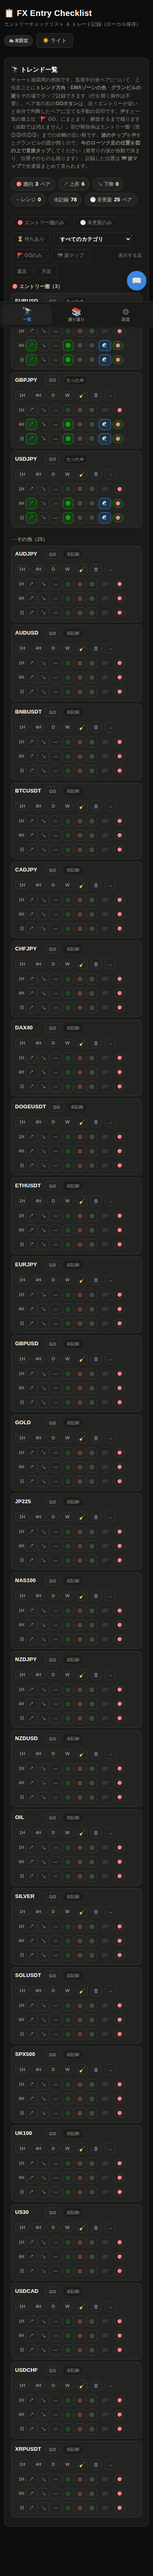
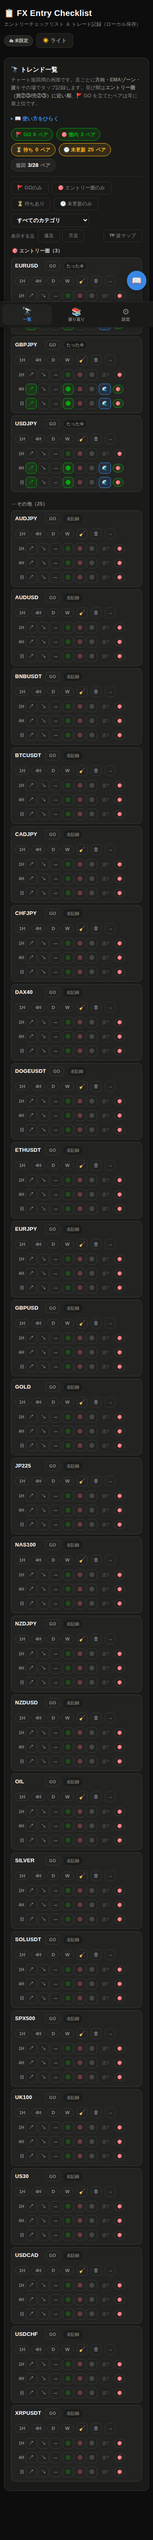
S59: 🔭一覧タブ上部（説明文・サマリー・ツールバー）を整理
説明文をS24〜S58の継ぎ足しで5話題・306文字に肥大していたのを常時2行に圧縮し、
操作手順は<details>の折りたたみへ退避。サマリーを6タイル（ペア単位/足単位が
混在）から5タイル全てペア単位（GO/圏内/待ち/未更新/巡回進捗）に統一し、
S44以降JSが出すクラス名にCSSが追随せずサマリーの配色が効いていなかった
バグも修正。ツールバーは絞り込み1行目・表示設定2行目に役割分離した。

並び順ロジック・DOM id・データモデル・CSV・端末間マージ・統計は無変更。
s42/s43/s44/s55 全159項目通過、新設s59-test.mjs 35項目通過。sw.js: v31→v32。

Claude-Session: https://claude.ai/code/session_01YStmG3mzBeBahP3oJj8pBB

diff --git a/index.html b/index.html
@@ -628,16 +628,37 @@
     font-size: 13.5px; font-weight: 700; color: var(--ink);
     font-variant-numeric: tabular-nums;
   }
-  .trend-summary .item.rd   { background: var(--accent-soft); border-color: var(--accent); color: var(--accent); }
-  .trend-summary .item.rd .n { color: var(--accent); }
+  /* S59: .rd（旧・目線3択のRD逆張り）はS58で撤去済みのため削除。
+     hot/stale はS44/S28からJS側が出しているクラス名（renderTrendSummary 参照）に合わせて定義。 */
   .trend-summary .item.go   { background: var(--good-soft); border-color: var(--good); color: var(--good); }
   .trend-summary .item.go .n { color: var(--good); }
+  .trend-summary .item.hot  { background: var(--good-soft); border-color: var(--good); color: var(--good); }
+  .trend-summary .item.hot .n { color: var(--good); }
   .trend-summary .item.wait { background: var(--warn-soft); border-color: var(--warn); color: var(--warn); }
   .trend-summary .item.wait .n { color: var(--warn); }
+  .trend-summary .item.stale { background: var(--warn-soft); border-color: var(--warn); color: var(--warn); }
+  .trend-summary .item.stale .n { color: var(--warn); }
+
+  /* S59: 説明文の常時表示は2行に圧縮し、操作手順は折りたたみへ退避（巡回のたびに読む文章ではないため）。 */
+  .trend-help { margin: -6px 0 12px; }
+  .trend-help summary {
+    font-size: 12.5px; font-weight: 600; color: var(--accent); cursor: pointer;
+    list-style: none; display: inline-flex; align-items: center; gap: 4px;
+  }
+  .trend-help summary::-webkit-details-marker { display: none; }
+  .trend-help summary::before { content: '▸'; font-size: 10px; }
+  .trend-help[open] summary::before { content: '▾'; }
+  .trend-help-body {
+    font-size: 12.5px; line-height: 1.6; color: var(--ink-muted);
+    padding: 8px 2px 0;
+  }
 
   .trend-toolbar {
     display: flex; flex-wrap: wrap; gap: 8px; align-items: center; margin-bottom: 12px;
   }
+  /* S59: 2行目（表示設定・波マップ）は1行目（絞り込み）よりわずかに間隔を詰め、
+     役割が違う2グループであることを示す。 */
+  .trend-toolbar-2 { margin-top: -6px; }
   .trend-toolbar .spacer { flex: 1; }
   .trend-filter-btn.on { background: var(--accent-soft); color: var(--accent); border-color: var(--accent); }
   .trend-category-select {
@@ -1189,21 +1210,32 @@
   <!-- ============ 🔭 トレンド一覧（監視ペア横断） ============ -->
   <section class="card tab-panel" id="tabPanel-trend">
     <h2>🔭 トレンド一覧</h2>
-    <div class="section-note">チャート巡回用の画面です。監視中の全ペアについて、上位足ごとに<strong>トレンド方向</strong>・<strong>EMAゾーンの色</strong>・<strong>グランビルの波</strong>をその場でタップ記録できます（行を開く操作は不要）。ペア名の右の<strong>GOボタン</strong>は、近々エントリーが近いと自分で判断したペアに立てる手動の目印です。押すと一覧の最上位「🚩 GO」にまとまり、解除するまで残ります（自動では消えません）。並び順自体はエントリー圏（買②③/売②③）までの距離の近い順です。<strong>波のチップ</strong>を押すとグランビルの図が開くので、<strong>今のローソク足の位置を図の上で直接タップ</strong>してください（最寄りの波が自動で決まり、位置そのものも残ります）。記録した位置は <strong>🗺 波マップ</strong>で全通貨まとめて見られます。</div>
+    <div class="section-note">チャート巡回用の画面です。足ごとに<strong>方向・EMAゾーン・波</strong>をその場でタップ記録します。並び順は<strong>エントリー圏（買②③/売②③）に近い順</strong>、🚩 GO を立てたペアは常に最上位です。</div>
+    <details class="trend-help">
+      <summary>📖 使い方をひらく</summary>
+      <div class="trend-help-body">
+        <strong>波のチップ</strong>を押すとグランビルの図が開くので、<strong>今のローソク足の位置を図の上で直接タップ</strong>してください（最寄りの波が自動で決まり、位置そのものも残ります）。<br>
+        <strong>GOボタン</strong>は近々エントリーが近いと自分で判断したペアに立てる手動の目印で、解除するまで残ります（🧹巡回記録クリアでも消えません）。<br>
+        記録した波の位置は <strong>🗺 波マップ</strong>で全通貨まとめて見られます。<br>
+        🕐鮮度は12時間で「1回抜けた」、36時間で「1日抜けた」の目安です。⏳待ちはRCI到達待ち・MACD発生待ちなどの根拠です。
+      </div>
+    </details>
     <div class="trend-summary" id="trendSummary"></div>
     <div class="trend-toolbar">
-      <button class="btn-ghost trend-filter-btn" type="button" id="trendFilterAligned">🎯 エントリー圏のみ</button>
-      <button class="btn-ghost trend-filter-btn" type="button" id="trendFilterStale">🕐 未更新のみ</button>
-      <button class="btn-ghost trend-filter-btn" type="button" id="trendFilterWait"
-              title="RCI到達待ち・MACD発生待ちなど、⏳待ちの根拠があるペアだけに絞る">⏳ 待ちあり</button>
-      <select class="trend-category-select" id="trendCategorySelect"></select>
       <button class="btn-ghost trend-filter-btn" type="button" id="trendFilterGo"
               title="自分でGOを立てたペアだけに絞る">🚩 GOのみ</button>
-      <button class="btn-ghost trend-filter-btn" type="button" id="trendMapOpen"
-              title="記録した波の位置を全通貨まとめて図の上で見る">🗺 波マップ</button>
-      <span class="spacer"></span>
+      <button class="btn-ghost trend-filter-btn" type="button" id="trendFilterAligned">🎯 エントリー圏のみ</button>
+      <button class="btn-ghost trend-filter-btn" type="button" id="trendFilterWait"
+              title="RCI到達待ち・MACD発生待ちなど、⏳待ちの根拠があるペアだけに絞る">⏳ 待ちあり</button>
+      <button class="btn-ghost trend-filter-btn" type="button" id="trendFilterStale">🕐 未更新のみ</button>
+      <select class="trend-category-select" id="trendCategorySelect"></select>
+    </div>
+    <div class="trend-toolbar trend-toolbar-2">
       <span class="trend-tf-label">表示する足</span>
       <span class="trend-tf-toggles" id="trendTfToggles"></span>
+      <span class="spacer"></span>
+      <button class="btn-ghost trend-filter-btn" type="button" id="trendMapOpen"
+              title="記録した波の位置を全通貨まとめて図の上で見る">🗺 波マップ</button>
     </div>
     <div id="trendList"></div>
   </section>
@@ -3791,27 +3823,27 @@ function trendItemHtml(w) {
   '</div>';
 }
 
-/* 上部サマリー：今どの状態が何件かを一目で把握する。行の差し替え時も更新する。 */
+/* 上部サマリー：今どの状態が何件かを一目で把握する。行の差し替え時も更新する。
+   S59: 足単位の方向カウント（↗/↘/─/未記録）を撤去した。28ペア×3足＝84件の分母で
+   ペア単位のタイル（圏内・未更新など）と単位が揃っておらず誤読の元だったため
+   （方向は各行のトグルの色そのものが常時見えており、集計の価値が薄い）。
+   代わりに「巡回 n/m ペア」で今日どこまで見終えたかの進捗を出す。
+   タイルの並びはツールバー1行目のフィルタボタンと同じ順（GO→圏内→待ち→未更新）に揃える。 */
 function renderTrendSummary(pairs) {
-  const counts = { hot: 0, up: 0, down: 0, range: 0, none: 0, stale: 0 };
+  const counts = { go: 0, hot: 0, wait: 0, stale: 0, done: 0 };
   pairs.forEach(w => {
+    if (w.go) counts.go++;
     if (pairIsHot(w)) counts.hot++;
+    if (pairWaitCount(w) > 0) counts.wait++;
     if (isTrendStale(w)) counts.stale++;
-    MV_TREND_DEFAULT_TFS.forEach(t => {
-      const s = (w.trend && w.trend[t.k] || {}).state || '';
-      if (s === 'up') counts.up++;
-      else if (s === 'down') counts.down++;
-      else if (s === 'range') counts.range++;
-      else counts.none++;
-    });
+    if (w.trendAt) counts.done++;
   });
   const summaryItems = [
-    { cls: 'hot',  label: '🎯 圏内', n: counts.hot,  unit: 'ペア' },
-    { cls: '', label: '↗ 上昇',   n: counts.up,    unit: '' },
-    { cls: '', label: '↘ 下降',   n: counts.down,  unit: '' },
-    { cls: '', label: '─ レンジ', n: counts.range, unit: '' },
-    { cls: '', label: '未記録',   n: counts.none,  unit: '' },
+    { cls: 'go',    label: '🚩 GO',    n: counts.go,    unit: 'ペア' },
+    { cls: 'hot',   label: '🎯 圏内',  n: counts.hot,   unit: 'ペア' },
+    { cls: 'wait',  label: '⏳ 待ち',  n: counts.wait,  unit: 'ペア' },
     { cls: 'stale', label: '🕐 未更新', n: counts.stale, unit: 'ペア' },
+    { cls: '',      label: '巡回',     n: counts.done + '/' + pairs.length, unit: 'ペア' },
   ];
   trendSummaryEl.innerHTML = pairs.length
     ? summaryItems.map(i =>
@@ -3839,16 +3871,17 @@ function renderTrendCategoryOptions() {
 }
 
 
-/* ツールバーの4つの絞り込みを AND で当てる。
+/* ツールバーの5つの絞り込みを AND で当てる。順序は AND なので結果に影響しないが、
+   S59でツールバー1行目の表示順（GO→圏内→待ち→未更新→カテゴリ）に揃えてある。
    S40: 🗺 波マップも同じ条件で描くため、一覧の中に埋めずに切り出してある。 */
 function trendApplyFilters(pairs) {
   let shown = pairs;
+  if (trendGoOnly)     shown = shown.filter(w => w.go);
   /* S44: 図の上でタップした位置が買②③/売②③の圏内にあるペアだけに絞る。 */
   if (trendEntryOnly)  shown = shown.filter(pairIsHot);
-  if (trendStaleOnly)  shown = shown.filter(isTrendStale);
   if (trendWaitOnly)   shown = shown.filter(w => pairWaitCount(w) > 0);
+  if (trendStaleOnly)  shown = shown.filter(isTrendStale);
   if (trendCategory)   shown = shown.filter(w => trendCategoryOf(w.pair) === trendCategory);
-  if (trendGoOnly)     shown = shown.filter(w => w.go);
   return shown;
 }
 

diff --git a/sw.js b/sw.js
@@ -6,7 +6,7 @@
  * ⚠ index.html を更新したら CACHE の版番号を上げること。
  *   上げ忘れても HTML は network-first なので最新が届くが、assets の差し替えは届かない。
  */
-const CACHE = 'fx-checklist-v31';
+const CACHE = 'fx-checklist-v32';
 
 /* 起動に最低限必要なもの。画像は重いので事前取得せず、使われたときに入れる。 */
 const PRECACHE = ['./', './index.html', './manifest.webmanifest',
